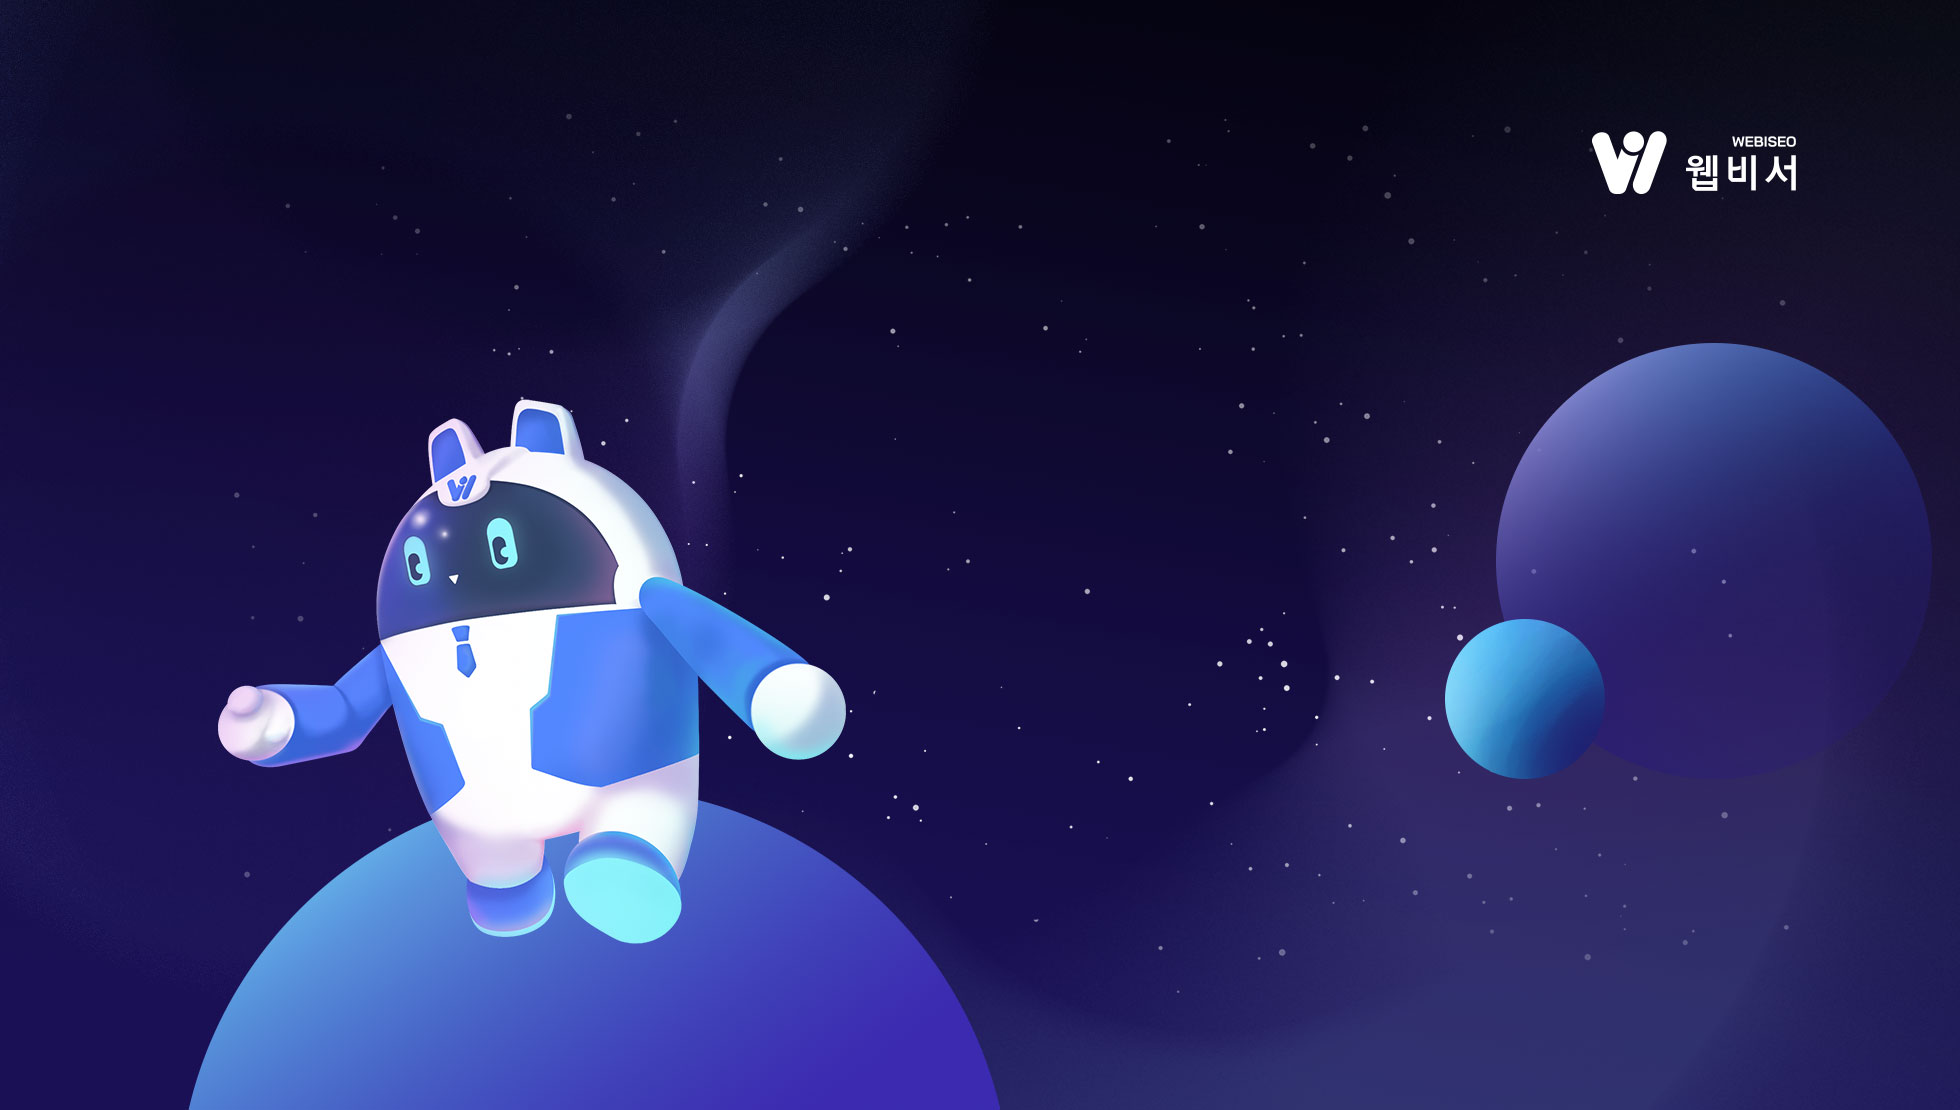
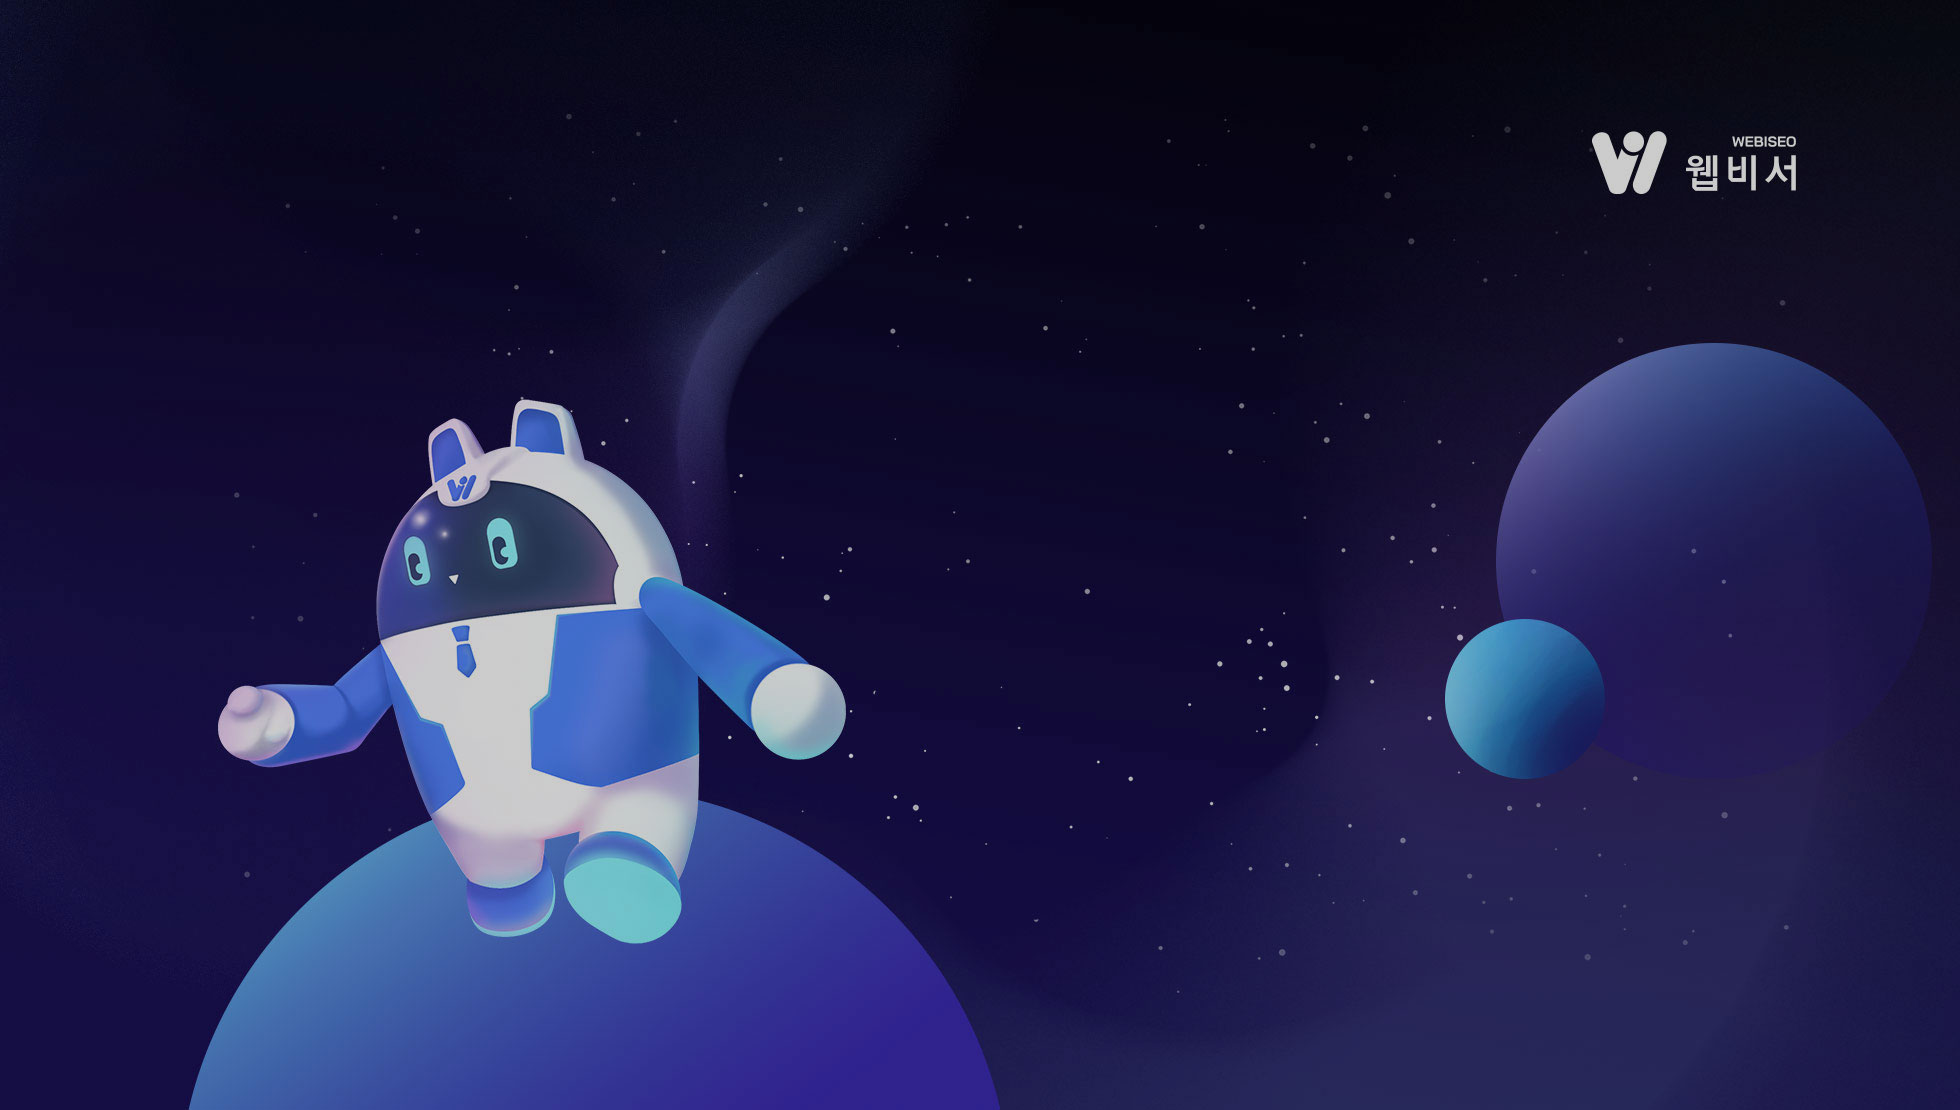
[2024.11.24]포폴 배경 효과 오류 수정

Changed region(s): [[0.0934, 0.3369, 0.5291, 1.0], [0.7158, 0.3063, 0.9648, 0.7045], [0.8092, 0.1225, 0.9337, 0.1838]]

diff --git a/index.html b/index.html
@@ -13,34 +13,35 @@
 
 <body>
 <div class="timeline-container" id="timeline-1">
+   <div class="bg_area"></div>
    <!--header(s)-->
   <div class="timeline-header">
     <h2 class="timeline-header__title">Work</h2>
     <h3 class="timeline-header__subtitle">Lee Da Hye</h3>
   </div>
   <!--header(e)-->
-  <!--timeline item1(s)-->
   <div class="timeline">
+	<!--timeline item1(s)-->
     <div class="timeline-item" data-text="Responsive Web" data-index="1">
+		<div class="timeline__content">
+		  <!-- <img class="timeline__img" src="image/hansot.png"/> -->
+		  <img class="timeline__back" src="image/demo0.jpg"/>
+		  <h2 class="timeline__content-title">손안의 여행 리뉴얼</h2>
+		  <p class="timeline__content-desc">한국관광공사 2024 여행업계 <br>디지털전환사업(DX) 사이트 리뉴얼</p>
+		  <div class="button-8" onclick="javascript:go_open(1);">
+			  <div class="eff-8"></div>
+			  <span> view </span>
+		  </div>
+		</div>
+	</div>
+	<!--timeline item1(e)-->
+	<!--timeline item2(s)-->
+    <div class="timeline-item" data-text="Responsive Web" data-index="2">
       <div class="timeline__content">
 		<!-- <img class="timeline__img" src="image/hansot.png"/> -->
 		<img class="timeline__back" src="image/demo1.jpg"/>
         <h2 class="timeline__content-title">루벤티스 R&D 사업 참여</h2>
         <p class="timeline__content-desc">비즈오토메이트 업무 자동화 서비스 안내 페이지 구축</p>
-		<div class="button-8" onclick="javascript:go_open(1);">
-			<div class="eff-8"></div>
-			<span> view </span>
-		</div>
-      </div>
-    </div>
-	<!--timeline item1(e)-->
-	<!--timeline item2(s)-->
-    <div class="timeline-item" data-text="Responsive Web" data-index="2">
-      <div class="timeline__content">
-		<!-- <img class="timeline__img" src="image/rental.png"/> -->
-		<img class="timeline__back" src="image/demo2.jpg"/>
-        <h2 class="timeline__content-title">템플릿 홈페이지 <br>제작 서비스 "웹비서"</h2>
-        <p class="timeline__content-desc">영카트 기반 템플릿 판매 쇼핑몰 제작</p>
 		<div class="button-8" onclick="javascript:go_open(2);">
 			<div class="eff-8"></div>
 			<span> view </span>
@@ -51,10 +52,10 @@
 	<!--timeline item3(s)-->
     <div class="timeline-item" data-text="Responsive Web" data-index="3">
       <div class="timeline__content">
-		<!-- <img class="timeline__img" src="image/baugil.png"/> -->
-		<img class="timeline__back" src="image/demo3.jpg"/>
-        <h2 class="timeline__content-title">가온 3D 사이트 구축</h2>
-        <p class="timeline__content-desc">영카트 기반 건설분야 3차원 모델링 판매 사이트 제작</p>
+		<!-- <img class="timeline__img" src="image/rental.png"/> -->
+		<img class="timeline__back" src="image/demo2.jpg"/>
+        <h2 class="timeline__content-title">템플릿 홈페이지 <br>제작 서비스 "웹비서"</h2>
+        <p class="timeline__content-desc">영카트 기반 템플릿 판매 쇼핑몰 제작</p>
 		<div class="button-8" onclick="javascript:go_open(3);">
 			<div class="eff-8"></div>
 			<span> view </span>
@@ -65,10 +66,10 @@
 	<!--timeline item4(s)-->
     <div class="timeline-item" data-text="Responsive Web" data-index="4">
       <div class="timeline__content">
-		<!-- <img class="timeline__img" src="image/banilaco.png"/> -->
-		<img class="timeline__back" src="image/demo4.jpg"/>
-        <h2 class="timeline__content-title">넥슨게임즈 사이트 구축</h2>
-        <p class="timeline__content-desc">넥슨게임즈 기업 소개 사이트 제작</p>
+		<!-- <img class="timeline__img" src="image/baugil.png"/> -->
+		<img class="timeline__back" src="image/demo3.jpg"/>
+        <h2 class="timeline__content-title">가온 3D 사이트 구축</h2>
+        <p class="timeline__content-desc">영카트 기반 건설분야 3차원 모델링 판매 사이트 제작</p>
 		<div class="button-8" onclick="javascript:go_open(4);">
 			<div class="eff-8"></div>
 			<span> view </span>
@@ -79,10 +80,10 @@
 	<!--timeline item5(s)-->
     <div class="timeline-item" data-text="Responsive Web" data-index="5">
       <div class="timeline__content">
-		<!-- <img class="timeline__img" src="image/locom.png"/> -->
-		<img class="timeline__back" src="image/demo5.jpg"/>
-        <h2 class="timeline__content-title">대우테크 사이트 구축</h2>
-        <p class="timeline__content-desc">워드프레스 기반 대우테크 홍보 및 고객지원 사이트 제작</p>
+		<!-- <img class="timeline__img" src="image/banilaco.png"/> -->
+		<img class="timeline__back" src="image/demo4.jpg"/>
+        <h2 class="timeline__content-title">넥슨게임즈 사이트 구축</h2>
+        <p class="timeline__content-desc">넥슨게임즈 기업 소개 사이트 제작</p>
 		<div class="button-8" onclick="javascript:go_open(5);">
 			<div class="eff-8"></div>
 			<span> view </span>
@@ -92,18 +93,60 @@
 	<!--timeline item5(e)-->
 	<!--timeline item6(s)-->
     <div class="timeline-item" data-text="Responsive Web" data-index="6">
+      <div class="timeline__content">
+		<!-- <img class="timeline__img" src="image/locom.png"/> -->
+		<img class="timeline__back" src="image/demo5.jpg"/>
+        <h2 class="timeline__content-title">대우테크 사이트 구축</h2>
+        <p class="timeline__content-desc">워드프레스 기반 대우테크 홍보 및 고객지원 사이트 제작</p>
+		<div class="button-8" onclick="javascript:go_open(6);">
+			<div class="eff-8"></div>
+			<span> view </span>
+		</div>
+      </div>
+    </div>
+	<!--timeline item6(e)-->
+	<!--timeline item7(s)-->
+    <div class="timeline-item" data-text="Responsive Web" data-index="7">
 		<div class="timeline__content">
 		  <!-- <img class="timeline__img" src="image/locom.png"/> -->
 		  <img class="timeline__back" src="image/demo6.jpg"/>
 		  <h2 class="timeline__content-title">메이플스토리 채용 블로그</h2>
 		  <p class="timeline__content-desc">워드프레스 기반 넥슨 메이플스토리 채용 블로그 제작</p>
-		  <div class="button-8" onclick="javascript:go_open(6);">
-			  <div class="eff-8"></div>
-			  <span> view </span>
+		  <div class="button-8" onclick="javascript:go_open(7);">
+			  	<div class="eff-8"></div>
+			  	<span> view </span>
 		  </div>
 		</div>
-	  </div>
-	  <!--timeline item6(e)-->
+	</div>
+	<!--timeline item7(e)-->
+	<!--timeline item8(s)-->
+    <div class="timeline-item" data-text="Responsive Web" data-index="8">
+		<div class="timeline__content">
+		  <!-- <img class="timeline__img" src="image/locom.png"/> -->
+		  <img class="timeline__back" src="image/demo7.jpg"/>
+		  <h2 class="timeline__content-title">KB라스쿨 사이트 구축</h2>
+		  <p class="timeline__content-desc">학업 솔루션 제공 온라인 플랫폼 제작</p>
+		  <div class="button-8" onclick="javascript:go_open(8);">
+			  	<div class="eff-8"></div>
+			  	<span> view </span>
+		  </div>
+		</div>
+	</div>
+	<!--timeline item8(e)-->
+	<!--timeline item9(s)-->
+    <div class="timeline-item" data-text="Responsive Web" data-index="9">
+		<div class="timeline__content">
+		  <!-- <img class="timeline__img" src="image/locom.png"/> -->
+		  <img class="timeline__back" src="image/demo8.jpg"/>
+		  <h2 class="timeline__content-title">현대자동차 · <br>기아협력회 리뉴얼</h2>
+		  <p class="timeline__content-desc">협력회 활동 소식 및 문의 게시판 위주의 사이트 제작</p>
+		  <div class="button-8" onclick="javascript:go_open(9);">
+			  	<div class="eff-8"></div>
+			  	<span> view </span>
+		  </div>
+		</div>
+	</div>
+	<!--timeline item9(e)-->
 	
   </div>
 </div>
@@ -115,12 +158,11 @@
 		 <a href="javascript:void(0);" class="close" onclick="javascript:go_close(1);"><img src="image/close-button.png" alt=""></a>
 		 <div class="content">
 			 <div class="inner_content">
-				<h2>Hansot Renewal</h2>
+				<h2>손안의 여행 리뉴얼</h2>
 				<span></span>
-				<p>프로젝트명 : 한솥도시락 리뉴얼</p>
-				<p>Site : Website / Mobile</p>
-				<span class="url">URL : </span><a href="work/hansot/index.html" target="_blank"> work/hansot/index.html</a>
-				<span class="url_m">Mobile URL : </span><a href="work/hansot_m/index.html" target="_blank"> work/hansot_m/index.html</a>
+				<p>한국관광공사 2024 여행업계 디지털전환사업(DX) 참여 - "손안의 여행" 리뉴얼(퍼블리싱 100%)</p>
+				<p>Responsive web / gnuboard</p>
+				<span class="url">URL : </span><a href="https://k.sonantravel.com/" target="_blank"> https://k.sonantravel.com/</a>
 				<img src="image/hansot_detail.jpg" alt="">
 			 </div>
 		 </div>

diff --git a/css/detail.css b/css/detail.css
@@ -1,23 +1,42 @@
  body{width:100%; position:relative; overflow-x:hidden; overflow-y:auto;}
 /*상세*/
+
+.content::-webkit-scrollbar-track
+{
+	border-radius: 10px;
+	background-color: #F5F5F5;
+}
+
+.content::-webkit-scrollbar
+{
+	width: 8px;
+	background-color: #F5F5F5;
+}
+
+.content::-webkit-scrollbar-thumb
+{
+	border-radius: 10px;
+	background-color: #687aad;
+}
+
 .con{display:none; width:100%; height:100%; color:#000; position:fixed; top:0; left:0; z-index:999}
 .box{position:relative; width:100%; height:100%; margin:0 auto; background:#fff;}
 .content {height:100%; width:100%; overflow-y:auto;}
-.inner_content{position:relative; width:961px; margin:0 auto;}
+.inner_content{position:relative; width:1600px; margin:0 auto;}
 
 @media only screen and (max-width: 1024px) {
 .inner_content{width:100%;}
 }
-.inner_content h2{font-size:48px; color:#262626; font-weight:normal; font-family: 'Pretendard';; letter-spacing:-2px; margin:47px 0 0 20px;}
-.inner_content span{display:block; width:79px; height:1px; background:#262626; margin:15px 0 15px 20px; }
-.inner_content p{font-family: 'Pretendard';; color:#898989; font-size:16px; margin:5px 0 5px 20px; padding:0;}
-.inner_content a{display:block; text-decoration:none; font-family: 'Pretendard'; color:#222; font-size:16px; margin:5px 0 0 20px;}
+.inner_content h2{font-size:45px; color:#262626; font-weight:700; font-family: 'Pretendard';; letter-spacing:-2px; margin:47px 0 0 20px;}
+.inner_content span{display:block; width:79px; height:1px; background:#262626; margin:25px 0 25px 20px; }
+.inner_content p{font-family: 'Pretendard';; color:#898989; font-size:16px; margin:10px 0 10px 20px; padding:0;}
+.inner_content a{display:block; text-decoration:none; font-family: 'Pretendard'; color:#222; font-size:16px; margin:10px 0 10px 20px;}
 .inner_content a:hover{color:#436396;}
 .inner_content img{ margin:76px auto 0; width:100%;}
 .close{position:absolute; right:50px; top:25px; z-index:9999}
 .close img{margin:0; width:35px; height:30px;}
 .inner_content span.url{background:#fff; float:left; width:40px; height:auto; margin:0 0 0 20px; font-family: 'Pretendard';; font-size:16px; color:#222;}
-.inner_content span.url_m{background:#fff; float:left; width:100px; height:auto; margin:5px 0 0 20px; font-family: 'Pretendard';; font-size:16px; color:#222;}
+.inner_content span.url_m{background:#fff; float:left; width:100px; height:auto; margin:10px 0 0 20px; font-family: 'Pretendard';; font-size:16px; color:#222;}
 
 @media only screen and (max-width: 480px) {
 .inner_content h2{font-size:36px;}

diff --git a/js/index.js b/js/index.js
@@ -2,6 +2,7 @@
   $.fn.timeline = function() {
     var selectors = {
       id: $(this),
+      bg : $(this).find(".bg_area"),
       item: $(this).find(".timeline-item"),
       activeClass: "timeline-item--active",
       img: ".timeline__back"
@@ -9,13 +10,13 @@
 
     // 첫 번째 항목 활성화 및 배경 설정
     selectors.item.eq(0).addClass(selectors.activeClass);
-    selectors.id.css({
+    selectors.bg.css({
       "background-image": "url(" + selectors.item.first().find(selectors.img).attr("src") + ")",
     });
 
     // 첫 번째 항목의 data-index로 클래스 추가
     var firstIndex = selectors.item.first().data('index');
-    selectors.id.addClass('timeline-index-' + firstIndex);
+    selectors.bg.addClass('timeline-index-' + firstIndex);
 
     var itemLength = selectors.item.length;
 
@@ -33,27 +34,27 @@
           // 마지막 항목 활성화
           if (!selectors.item.last().hasClass(selectors.activeClass)) {
             selectors.item.removeClass(selectors.activeClass);
-            selectors.id.css({
+            selectors.bg.css({
               "background-image": "url(" + selectors.item.last().find(selectors.img).attr('src') + ")",
             });
             selectors.item.last().addClass(selectors.activeClass);
 
             // data-index 기반으로 클래스 추가
             var lastIndex = selectors.item.last().data('index');
-            triggerAnimation(selectors.id, lastIndex);
+            triggerAnimation(selectors.bg, lastIndex);
           }
 
         } else if (pos <= max - 40 && pos >= min) {
           if (!$(this).hasClass(selectors.activeClass)) {
             // 스크롤 위치에 따른 항목 활성화
-            selectors.id.css({
+            selectors.bg.css({
               "background-image": "url(" + $(this).find(selectors.img).attr('src') + ")",
             });
             selectors.item.removeClass(selectors.activeClass);
             $(this).addClass(selectors.activeClass);
 
             // data-index 기반으로 클래스 추가
-            triggerAnimation(selectors.id, dataIndex);
+            triggerAnimation(selectors.bg, dataIndex);
           }
         }
       });

diff --git a/css/style.css b/css/style.css
@@ -18,6 +18,10 @@ body::-webkit-scrollbar-thumb
 	background-color: #687aad;
 }
 
+.bg_area{position: fixed; left: 0; top: 0; width: 100%; height: 100%; background-attachment: fixed;
+  background-size: cover;
+  background-position: 50% 50%;
+  transition: 0.4s ease;}
 
 .timeline__back{display:none;}
 
@@ -47,6 +51,7 @@ body::-webkit-scrollbar-thumb
   font-weight:600;
   color: #fff;
   line-height: 1.4;
+  text-shadow: 1px 2px 5px rgba(0,0,0,0.2);
 }
 .timeline__content-desc {
   margin: 0;
@@ -158,11 +163,6 @@ body::-webkit-scrollbar-thumb
   width: 100%;
   position: relative;
   padding: 120px 0 80px;
-  background-attachment: fixed;
-  /*background-size: cover;*/
-  background-size: 120%;
-  background-position: 50% 50%;
-  transition: 0.4s ease;
 }
 
 @media only screen and (max-width: 1024px) {
@@ -205,6 +205,9 @@ body::-webkit-scrollbar-thumb
 .demo-footer {
   padding: 150px 0;
   text-align: center;
+  position: relative;
+  z-index: 2;
+  background: #fff;
 }
 .demo-footer a {
   text-decoration:none;
@@ -215,10 +218,10 @@ body::-webkit-scrollbar-thumb
 
 @keyframes backgroundShrink {
   from {
-    background-size: 115%;
+    transform: scale(1.2);
   }
   to {
-    background-size: 100%;
+    transform: scale(1);
   }
 }
 
